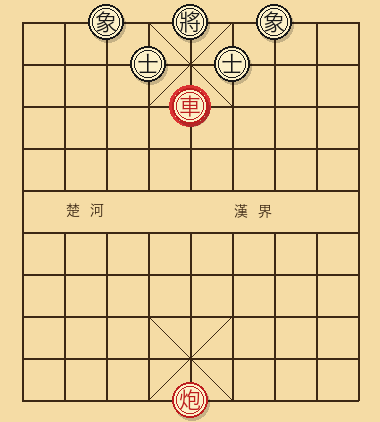
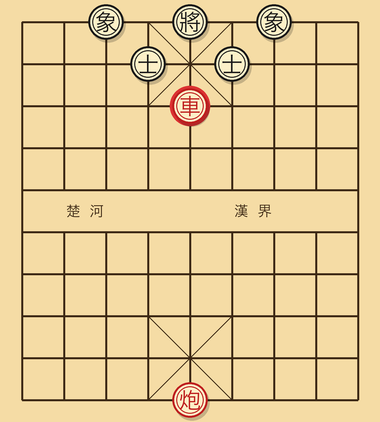
渲染加 4x 超采样，消锯齿
PIL ImageDraw 不自带抗锯齿，4x 渲染后 LANCZOS 缩到目标尺寸是标准做法。线条、圆圈、文字都明显平滑。

Changed region(s): [[0.0579, 0.0, 0.9553, 1.0], [0.0579, 0.1232, 0.0868, 0.1848]]

diff --git a/tools/render.py b/tools/render.py
@@ -11,10 +11,13 @@ import os
 import sys
 from PIL import Image, ImageDraw, ImageFont
 
-CELL = 42
-MARGIN = 22
+SS = 4  # 超采样倍数：渲染 4x 后用 LANCZOS 缩到目标尺寸，消除锯齿
+CELL = 42 * SS
+MARGIN = 22 * SS
 W = CELL * 8 + MARGIN * 2
 H = CELL * 9 + MARGIN * 2
+OUT_W = W // SS
+OUT_H = H // SS
 
 BG = (245, 220, 165)
 LINE = (60, 40, 20)
@@ -38,30 +41,31 @@ def coord(file, rank):
 
 
 def draw_board(draw):
+    lw = 2 * SS
     for f in range(1, 10):
         x, _ = coord(f, 1)
         y_top = MARGIN
         y_bot = MARGIN + 9 * CELL
         if f == 1 or f == 9:
-            draw.line([(x, y_top), (x, y_bot)], fill=LINE, width=2)
+            draw.line([(x, y_top), (x, y_bot)], fill=LINE, width=lw)
         else:
             y_riv_t = MARGIN + 4 * CELL
             y_riv_b = MARGIN + 5 * CELL
-            draw.line([(x, y_top), (x, y_riv_t)], fill=LINE, width=2)
-            draw.line([(x, y_riv_b), (x, y_bot)], fill=LINE, width=2)
+            draw.line([(x, y_top), (x, y_riv_t)], fill=LINE, width=lw)
+            draw.line([(x, y_riv_b), (x, y_bot)], fill=LINE, width=lw)
     for r in range(1, 11):
         _, y = coord(1, r)
         x1 = MARGIN
         x2 = MARGIN + 8 * CELL
-        draw.line([(x1, y), (x2, y)], fill=LINE, width=2)
+        draw.line([(x1, y), (x2, y)], fill=LINE, width=lw)
     # palace diagonals
     for ranks in [(1, 3), (8, 10)]:
         a = coord(4, ranks[1])
         b = coord(6, ranks[0])
         c = coord(6, ranks[1])
         d = coord(4, ranks[0])
-        draw.line([a, b], fill=LINE, width=1)
-        draw.line([c, d], fill=LINE, width=1)
+        draw.line([a, b], fill=LINE, width=SS)
+        draw.line([c, d], fill=LINE, width=SS)
 
 
 def draw_river(draw, font):
@@ -80,10 +84,10 @@ def draw_piece(draw, file, rank, char, is_red, font):
     x, y = coord(file, rank)
     r = CELL * 0.42
     color = RED if is_red else BLACK
-    draw.ellipse((x - r + 2, y - r + 3, x + r + 2, y + r + 3), fill=(0, 0, 0, 50))
-    draw.ellipse((x - r, y - r, x + r, y + r), fill=PIECE_BG, outline=color, width=2)
-    rin = r - 4
-    draw.ellipse((x - rin, y - rin, x + rin, y + rin), outline=color, width=1)
+    draw.ellipse((x - r + 2 * SS, y - r + 3 * SS, x + r + 2 * SS, y + r + 3 * SS), fill=(0, 0, 0, 50))
+    draw.ellipse((x - r, y - r, x + r, y + r), fill=PIECE_BG, outline=color, width=2 * SS)
+    rin = r - 4 * SS
+    draw.ellipse((x - rin, y - rin, x + rin, y + rin), outline=color, width=SS)
     bbox = draw.textbbox((0, 0), char, font=font)
     tw = bbox[2] - bbox[0]
     th = bbox[3] - bbox[1]
@@ -93,21 +97,22 @@ def draw_piece(draw, file, rank, char, is_red, font):
 def draw_highlight(draw, file, rank):
     x, y = coord(file, rank)
     r = CELL * 0.48
-    draw.ellipse((x - r, y - r, x + r, y + r), outline=HIGHLIGHT, width=3)
+    draw.ellipse((x - r, y - r, x + r, y + r), outline=HIGHLIGHT, width=3 * SS)
 
 
 def render(pieces, output, highlights=None):
     img = Image.new("RGB", (W, H), BG)
     draw = ImageDraw.Draw(img, "RGBA")
     draw_board(draw)
-    river_font = ImageFont.truetype(FONT_PATH, 14)
+    river_font = ImageFont.truetype(FONT_PATH, 14 * SS)
     draw_river(draw, river_font)
     if highlights:
         for f, r in highlights:
             draw_highlight(draw, f, r)
-    piece_font = ImageFont.truetype(FONT_PATH, 22)
+    piece_font = ImageFont.truetype(FONT_PATH, 22 * SS)
     for f, r, c, is_red in pieces:
         draw_piece(draw, f, r, c, is_red, piece_font)
+    img = img.resize((OUT_W, OUT_H), Image.Resampling.LANCZOS)
     img.save(output)
     print(f"wrote {output}")
 
